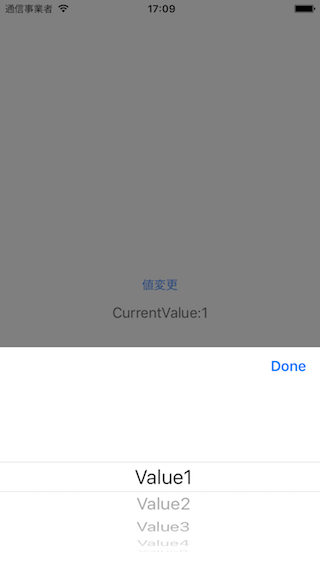
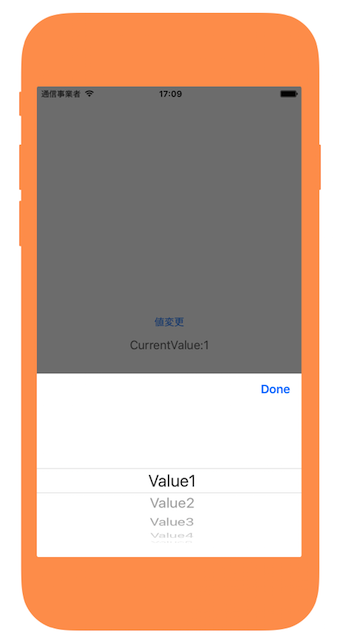
Update README.

diff --git a/README.md b/README.md
@@ -1,7 +1,7 @@
 # SimpleOption
 OptionsViewController is the UI that provides the option selection function for iOS. - OptionsViewController はiOS向けのオプション選択機能を提供するUIです。
 
-[![](https://github.com/notoroid/SimpleOption/raw/master/Screenshots/ss01-thumb.png)](https://github.com/notoroid/SimpleOption/raw/master/Screenshots/ss00.png)
+[![](https://github.com/notoroid/SimpleOption/raw/master/Screenshots/ss01-thumb.png)](https://github.com/notoroid/SimpleOption/raw/master/Screenshots/ss01.png)
 
 Cocoapods Supported. Please describe the following in your Podfile.
 
